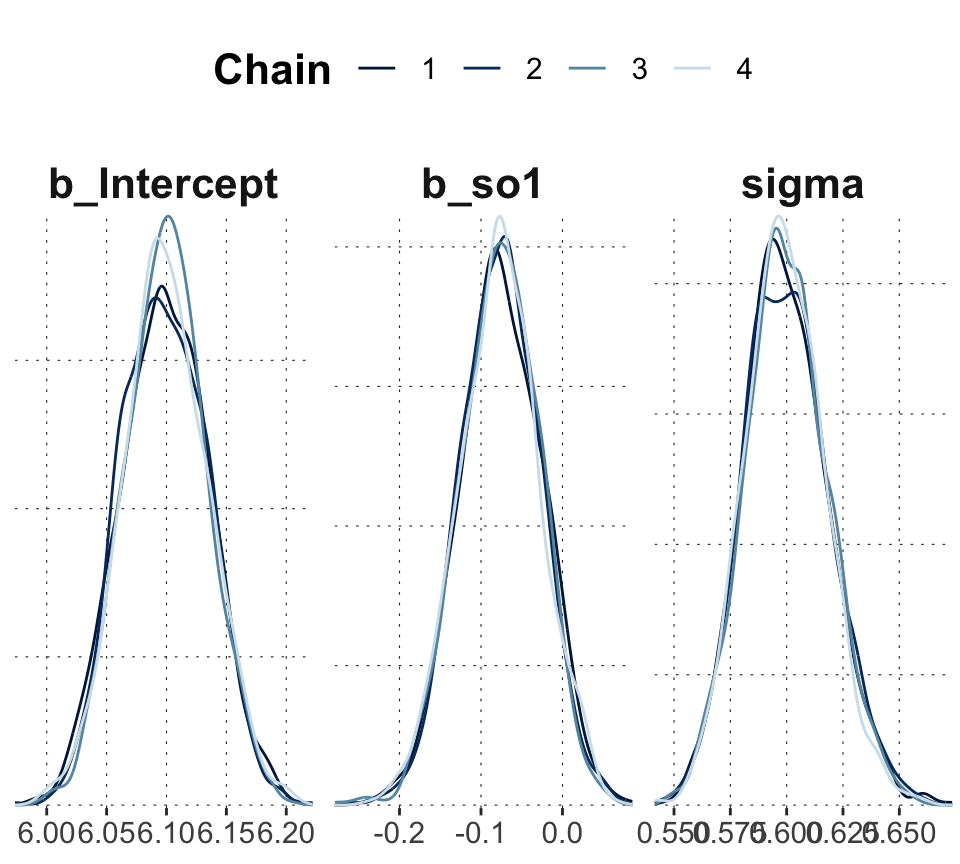
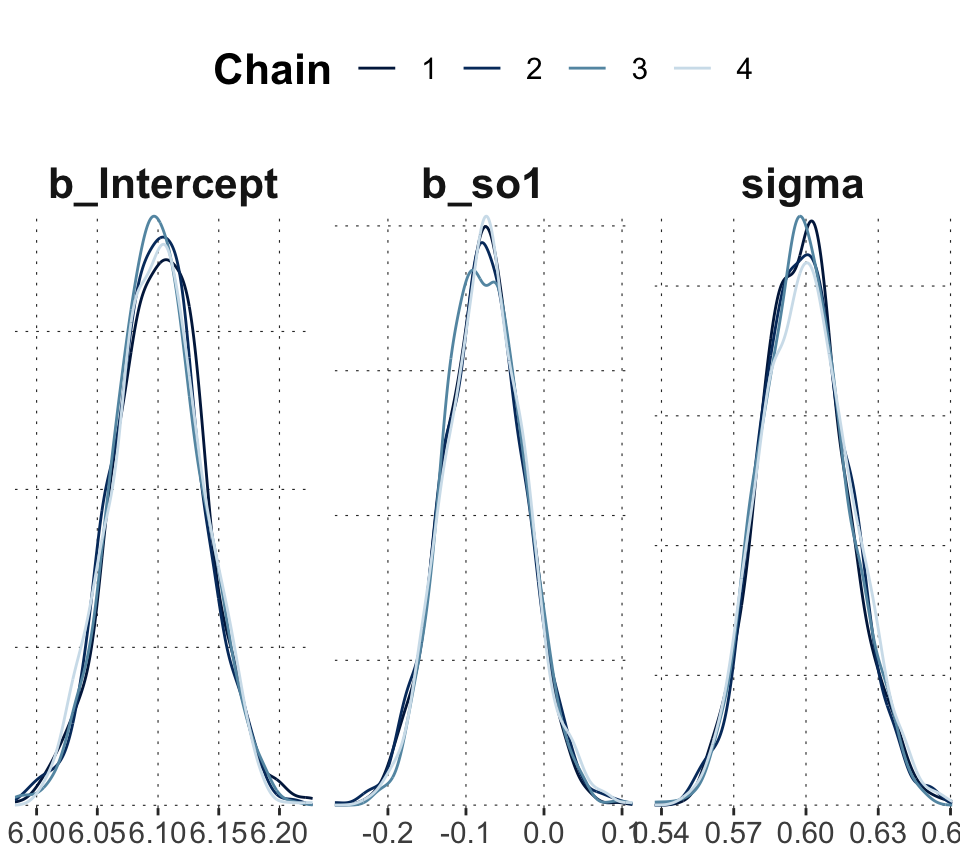
updated slides 5

Changed region(s): [[0.0, 0.25, 1.0, 1.0]]

diff --git a/docs/slides/05-slides.html b/docs/slides/05-slides.html
@@ -471,12 +471,12 @@ Formula: log(rt) ~ so
 
 Population-Level Effects: 
           Estimate Est.Error l-95% CI u-95% CI Rhat Bulk_ESS Tail_ESS
-Intercept     6.10      0.04     6.03     6.17 1.00     4102     3064
-so1          -0.08      0.05    -0.17     0.02 1.00     4434     2854
+Intercept     6.10      0.04     6.03     6.17 1.00     4030     2692
+so1          -0.08      0.05    -0.17     0.02 1.00     4150     2620
 
 Family Specific Parameters: 
       Estimate Est.Error l-95% CI u-95% CI Rhat Bulk_ESS Tail_ESS
-sigma     0.60      0.02     0.57     0.64 1.00     3996     2748
+sigma     0.60      0.02     0.57     0.64 1.00     3898     2821
 
 Draws were sampled using sampling(NUTS). For each parameter, Bulk_ESS
 and Tail_ESS are effective sample size measures, and Rhat is the potential
@@ -516,28 +516,28 @@ w_{0,\mathtt{subj}_i} &amp; \sim \mathcal{N}(0, \sigma_{w_0}) \\
 <div class="cell-output cell-output-stdout">
 <pre><code> Family: gaussian 
   Links: mu = identity; sigma = identity 
-Formula: log(rt) ~ (1 | subj + so) + so 
+Formula: log(rt) ~ (1 | subj + item) + so 
    Data: rt_data (Number of observations: 547) 
   Draws: 4 chains, each with iter = 2000; warmup = 1000; thin = 1;
          total post-warmup draws = 4000
 
 Group-Level Effects: 
-~so (Number of levels: 2) 
+~item (Number of levels: 15) 
               Estimate Est.Error l-95% CI u-95% CI Rhat Bulk_ESS Tail_ESS
-sd(Intercept)     1.47      1.27     0.07     5.15 1.02      171       58
+sd(Intercept)     0.20      0.05     0.12     0.32 1.00     1475     2392
 
 ~subj (Number of levels: 37) 
               Estimate Est.Error l-95% CI u-95% CI Rhat Bulk_ESS Tail_ESS
-sd(Intercept)     0.25      0.04     0.18     0.34 1.01      958     1816
+sd(Intercept)     0.25      0.04     0.18     0.34 1.00     1593     2503
 
 Population-Level Effects: 
           Estimate Est.Error l-95% CI u-95% CI Rhat Bulk_ESS Tail_ESS
-Intercept     6.13      1.35     3.26     9.65 1.02      518       66
-so1          -0.18      2.10    -5.31     3.96 1.02      406       91
+Intercept     6.10      0.08     5.95     6.24 1.00     1145     1379
+so1          -0.07      0.04    -0.16     0.01 1.00     7191     2986
 
 Family Specific Parameters: 
       Estimate Est.Error l-95% CI u-95% CI Rhat Bulk_ESS Tail_ESS
-sigma     0.55      0.02     0.52     0.59 1.00     4109     2503
+sigma     0.52      0.02     0.49     0.55 1.00     5466     3115
 
 Draws were sampled using sampling(NUTS). For each parameter, Bulk_ESS
 and Tail_ESS are effective sample size measures, and Rhat is the potential
@@ -580,28 +580,30 @@ w_{1,\mathtt{subj}_i} &amp; \sim \mathcal{N}(0, \sigma_{w_1}) \\
 <div class="cell-output cell-output-stdout">
 <pre><code> Family: gaussian 
   Links: mu = identity; sigma = identity 
-Formula: log(rt) ~ (1 | subj + so) + so 
+Formula: log(rt) ~ so + (1 + so || subj + item) 
    Data: rt_data (Number of observations: 547) 
   Draws: 4 chains, each with iter = 2000; warmup = 1000; thin = 1;
          total post-warmup draws = 4000
 
 Group-Level Effects: 
-~so (Number of levels: 2) 
+~item (Number of levels: 15) 
               Estimate Est.Error l-95% CI u-95% CI Rhat Bulk_ESS Tail_ESS
-sd(Intercept)     1.38      1.09     0.05     3.93 1.02      504     1489
+sd(Intercept)     0.20      0.05     0.12     0.31 1.00     1514     2007
+sd(so1)           0.07      0.05     0.00     0.20 1.00     1653     2508
 
 ~subj (Number of levels: 37) 
               Estimate Est.Error l-95% CI u-95% CI Rhat Bulk_ESS Tail_ESS
-sd(Intercept)     0.25      0.04     0.18     0.34 1.00     1114     1682
+sd(Intercept)     0.26      0.04     0.19     0.35 1.00     1743     2015
+sd(so1)           0.07      0.05     0.00     0.17 1.00     1288     1966
 
 Population-Level Effects: 
           Estimate Est.Error l-95% CI u-95% CI Rhat Bulk_ESS Tail_ESS
-Intercept     6.07      1.22     3.42     8.86 1.01      919      755
-so1          -0.01      1.80    -4.04     4.01 1.02      843      838
+Intercept     6.10      0.07     5.95     6.24 1.00     1565     2375
+so1          -0.07      0.05    -0.17     0.03 1.00     4754     2930
 
 Family Specific Parameters: 
       Estimate Est.Error l-95% CI u-95% CI Rhat Bulk_ESS Tail_ESS
-sigma     0.55      0.02     0.52     0.58 1.00     2998     2485
+sigma     0.52      0.02     0.49     0.55 1.00     5597     2604
 
 Draws were sampled using sampling(NUTS). For each parameter, Bulk_ESS
 and Tail_ESS are effective sample size measures, and Rhat is the potential
@@ -651,24 +653,24 @@ Formula: log(rt) ~ so + (1 + so | subj + item)
 Group-Level Effects: 
 ~item (Number of levels: 15) 
                    Estimate Est.Error l-95% CI u-95% CI Rhat Bulk_ESS Tail_ESS
-sd(Intercept)          0.20      0.06     0.11     0.34 1.00     1927     2375
-sd(so1)                0.07      0.05     0.00     0.20 1.00     1593     2210
-cor(Intercept,so1)    -0.04      0.54    -0.93     0.93 1.00     4785     2610
+sd(Intercept)          0.21      0.06     0.12     0.35 1.00     1683     2489
+sd(so1)                0.07      0.05     0.00     0.20 1.00     1344     2006
+cor(Intercept,so1)    -0.06      0.53    -0.94     0.92 1.00     4241     2651
 
 ~subj (Number of levels: 37) 
                    Estimate Est.Error l-95% CI u-95% CI Rhat Bulk_ESS Tail_ESS
-sd(Intercept)          0.30      0.05     0.21     0.41 1.00     1504     2192
-sd(so1)                0.13      0.06     0.01     0.26 1.00     1367     1568
-cor(Intercept,so1)    -0.68      0.31    -0.99     0.20 1.00     2861     2566
+sd(Intercept)          0.30      0.05     0.21     0.41 1.00     1435     2261
+sd(so1)                0.13      0.07     0.01     0.26 1.00     1066     1030
+cor(Intercept,so1)    -0.67      0.33    -0.99     0.28 1.00     2084     1626
 
 Population-Level Effects: 
           Estimate Est.Error l-95% CI u-95% CI Rhat Bulk_ESS Tail_ESS
-Intercept     6.10      0.08     5.94     6.26 1.00     1745     1917
-so1          -0.07      0.06    -0.18     0.04 1.00     4185     2797
+Intercept     6.10      0.08     5.94     6.25 1.00     1484     2214
+so1          -0.07      0.06    -0.18     0.04 1.00     4210     2934
 
 Family Specific Parameters: 
       Estimate Est.Error l-95% CI u-95% CI Rhat Bulk_ESS Tail_ESS
-sigma     0.52      0.02     0.48     0.55 1.00     5278     2890
+sigma     0.51      0.02     0.48     0.55 1.00     4003     3093
 
 Draws were sampled using sampling(NUTS). For each parameter, Bulk_ESS
 and Tail_ESS are effective sample size measures, and Rhat is the potential
